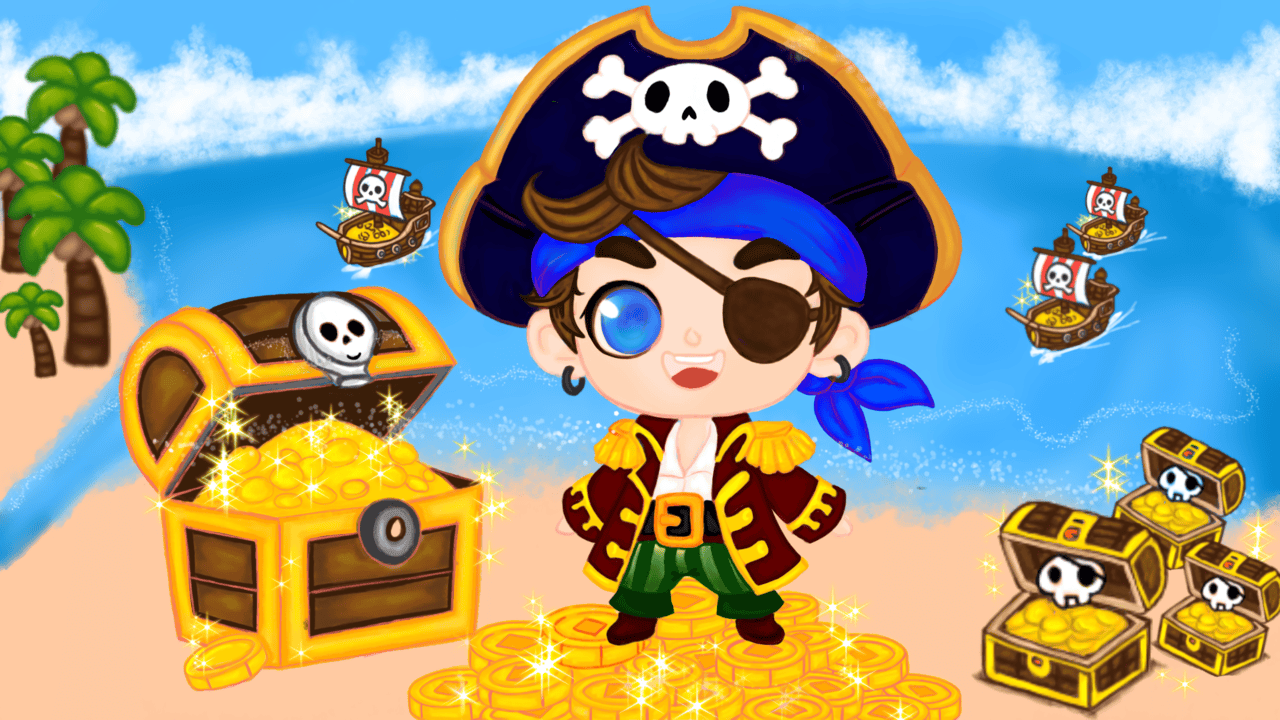
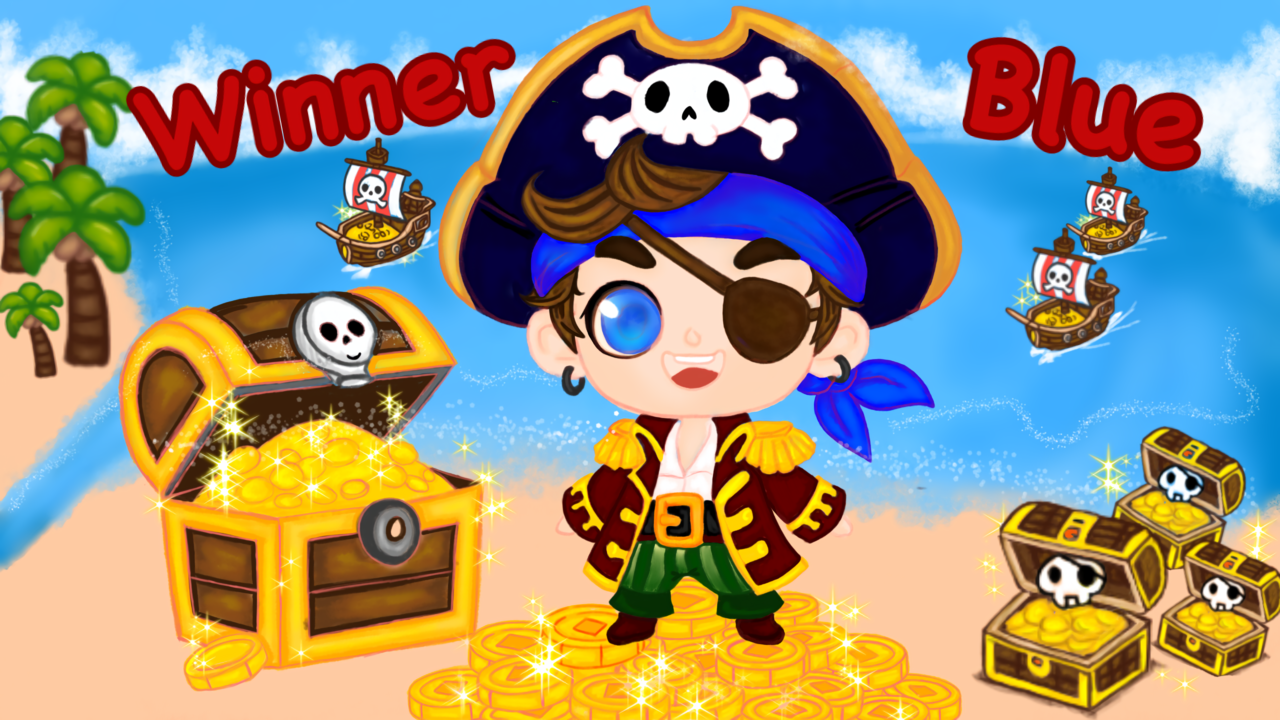
add TIE

diff --git a/src/main.cpp b/src/main.cpp
@@ -25,6 +25,7 @@ int main() {
     Texture2D selection_background = LoadTexture("graphics/MenubackgroundNotext.png");
     Texture2D BLWin = LoadTexture("graphics/WinnerBl.png");
     Texture2D ORWin = LoadTexture("graphics/WinnerOr.png");
+    Texture2D TIE = LoadTexture("graphics/draw.png");
     Texture2D TextBackground = LoadTexture("graphics/5.png");
 
     Button startButton("graphics/1.png",{510,300},0.5);
@@ -95,6 +96,7 @@ int main() {
                     ::CELL_SIZE = 500 / BOARD_SIZE;
                     ::NUM_MINES = 7;
                     currentState = GameState::GAME;
+                    game.InitializeBoard();
                 }
                 if (customButton.isPressed(mousePosition,mousePressed)) currentState = GameState::CUSTOM_SETUP;
                 if (backButton.isPressed(mousePosition,mousePressed)) currentState = GameState::MENU;
@@ -157,7 +159,7 @@ int main() {
                     game.Reset();
                 }
                 
-                game.Draw(Bomb,BLWin,ORWin,Flag);
+                game.Draw(Bomb,BLWin,ORWin,Flag,TIE);
 
                 //back button
                 exitButton.Draw();

diff --git a/src/game.h b/src/game.h
@@ -193,7 +193,7 @@ public:
         winner = (player1Score > player2Score) ? "Blue" : (player2Score > player1Score) ? "Orange" : "Tie";
 
     }
-
+                                
     Color sand = {217, 191, 166, 255};
     Color sandRevealed = {176, 152, 130, 255};
     
